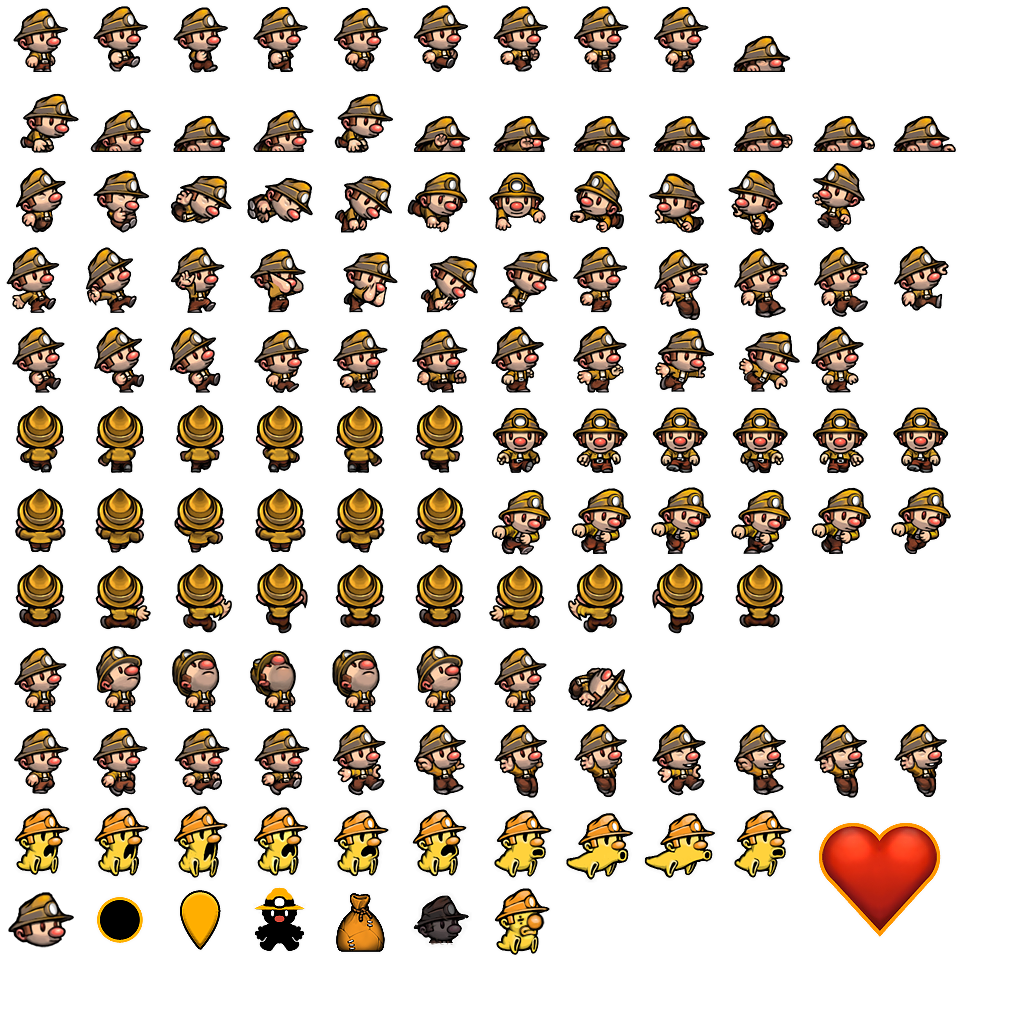
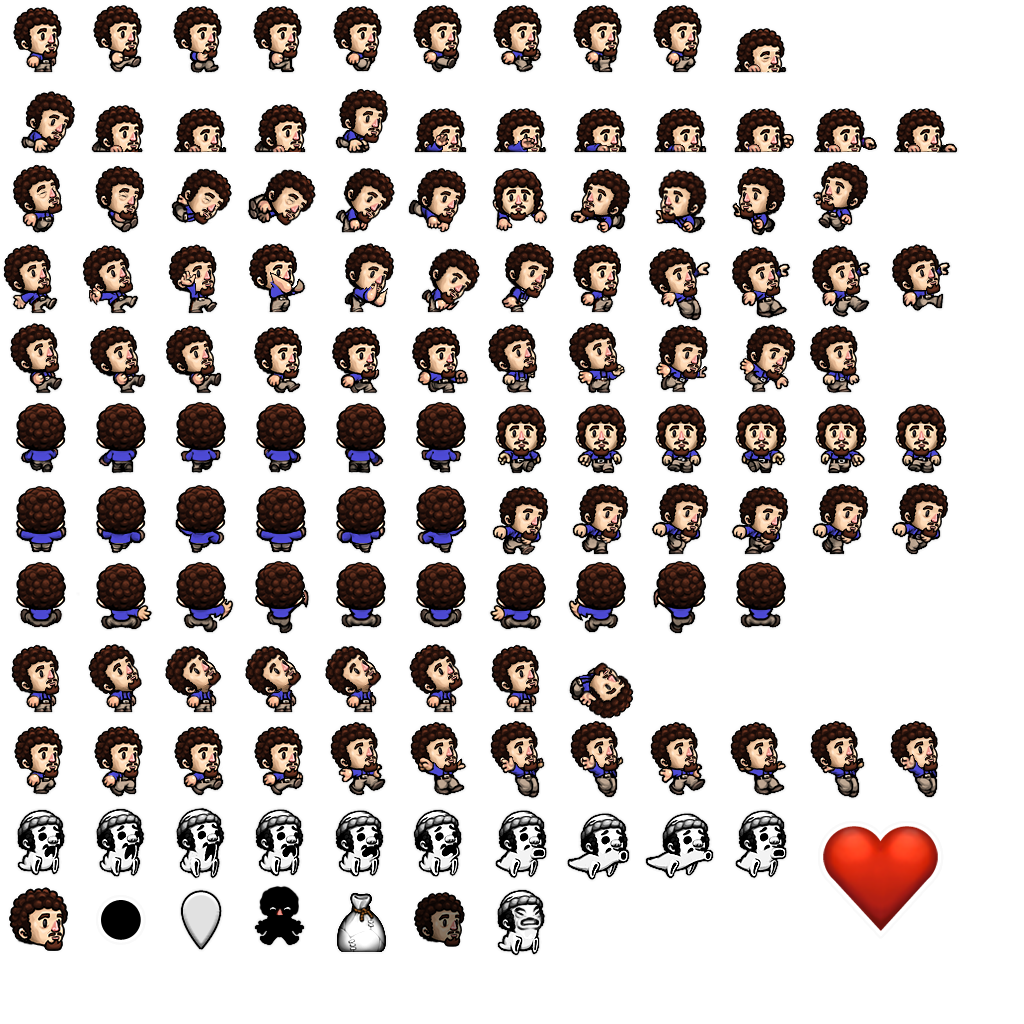
Changed char_orange.png to the one posted on the GiantBomb forums in Patrick's likeness. Also updated database insert to attempt to prevent bad data

diff --git a/functions.php b/functions.php
@@ -370,7 +370,7 @@
    // Store player results in a database table
    // Currently not used for anything
    function save_score($player) {
-      if ($player->score >= 0 || $player->level) {
+      if ($player->score >= 0 && $player->level != '1-1') {
          $result = mysql_query("select * from spelunky_scores " .
                                " where scores_players_id = " . $player->steamid . 
                                "   and scores_date = date('" . date('Y-m-d') . "')");
